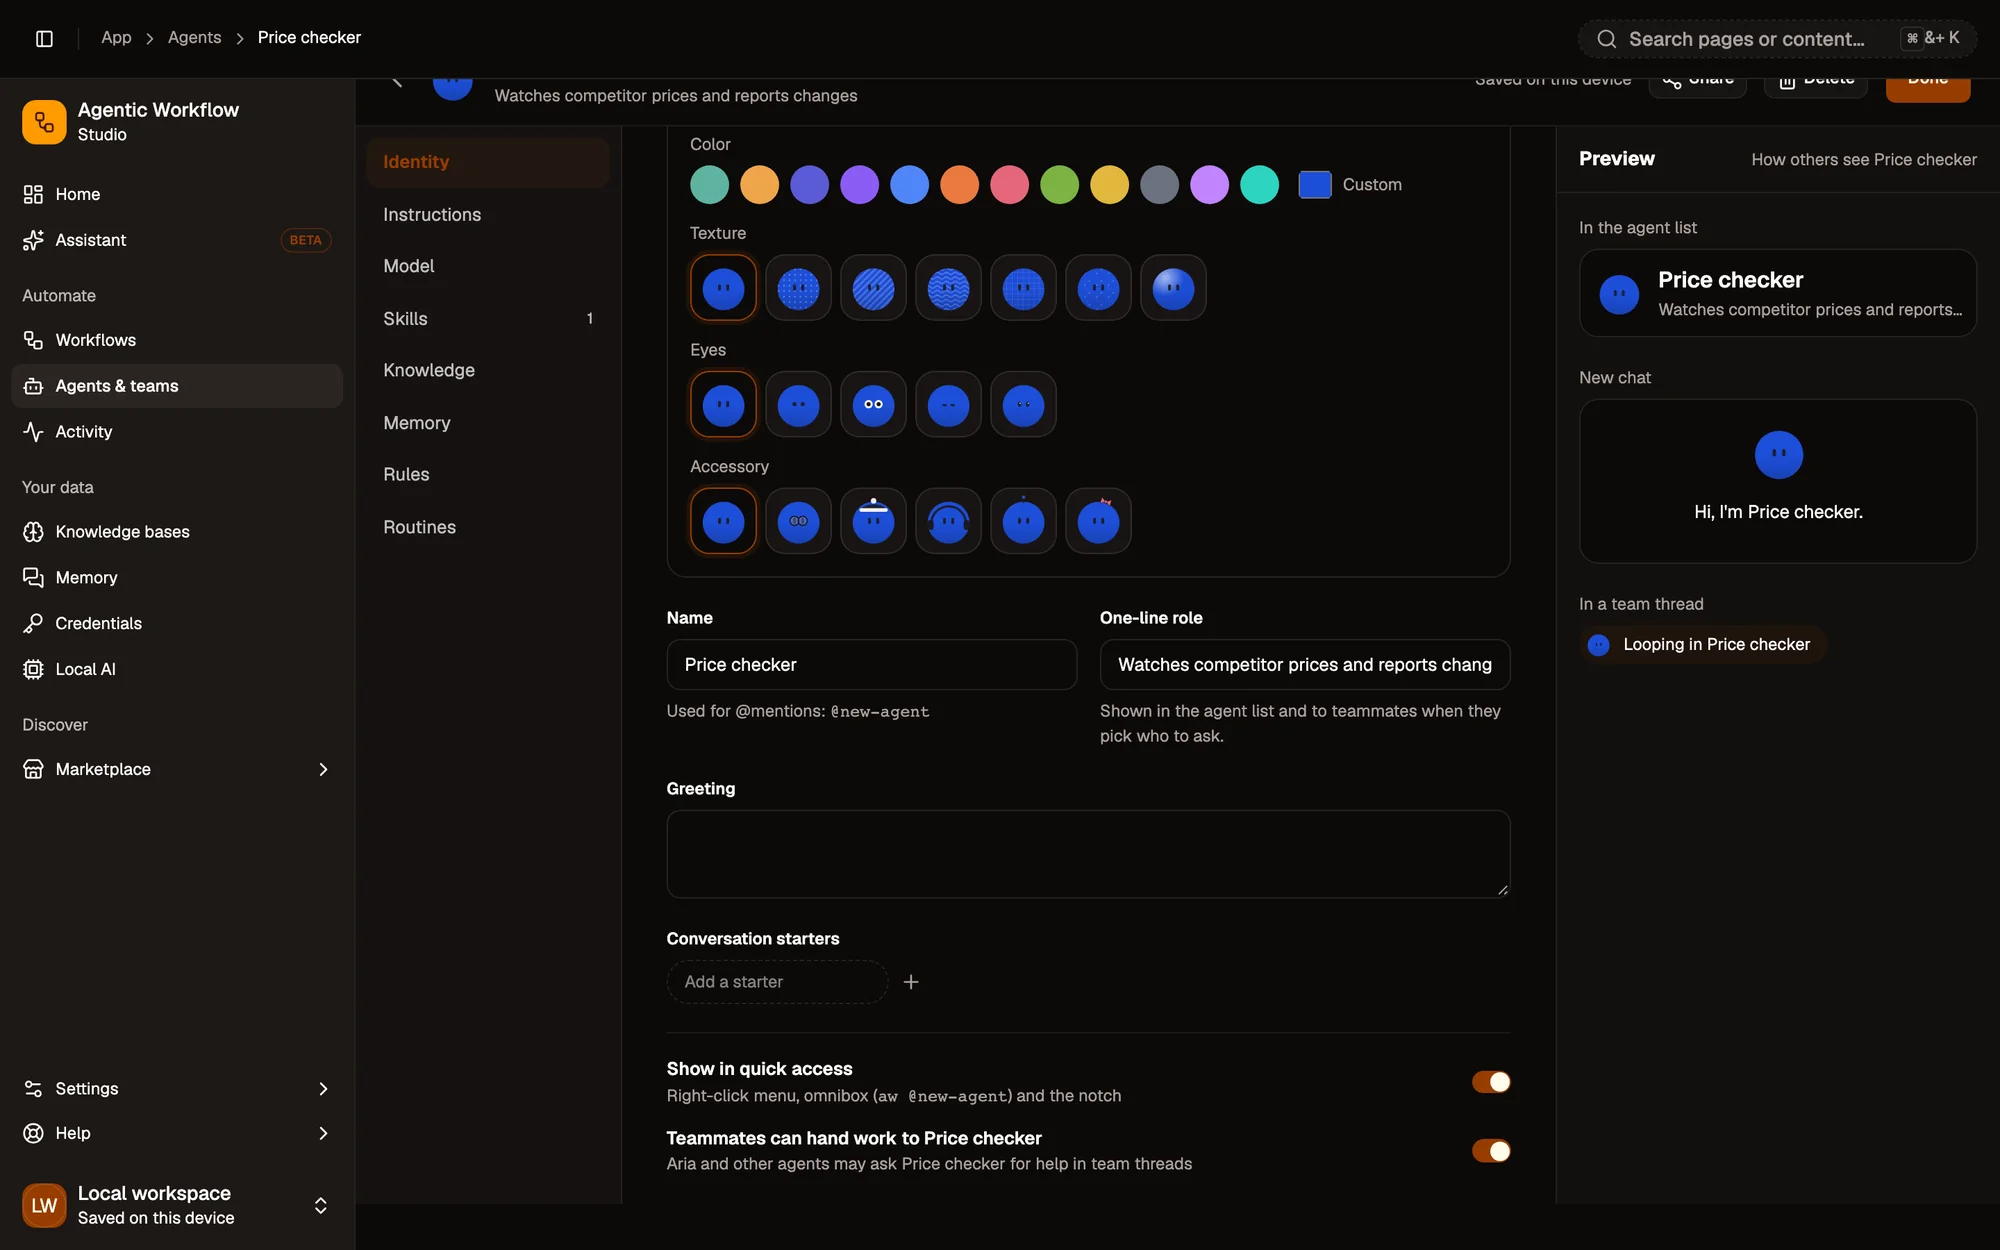
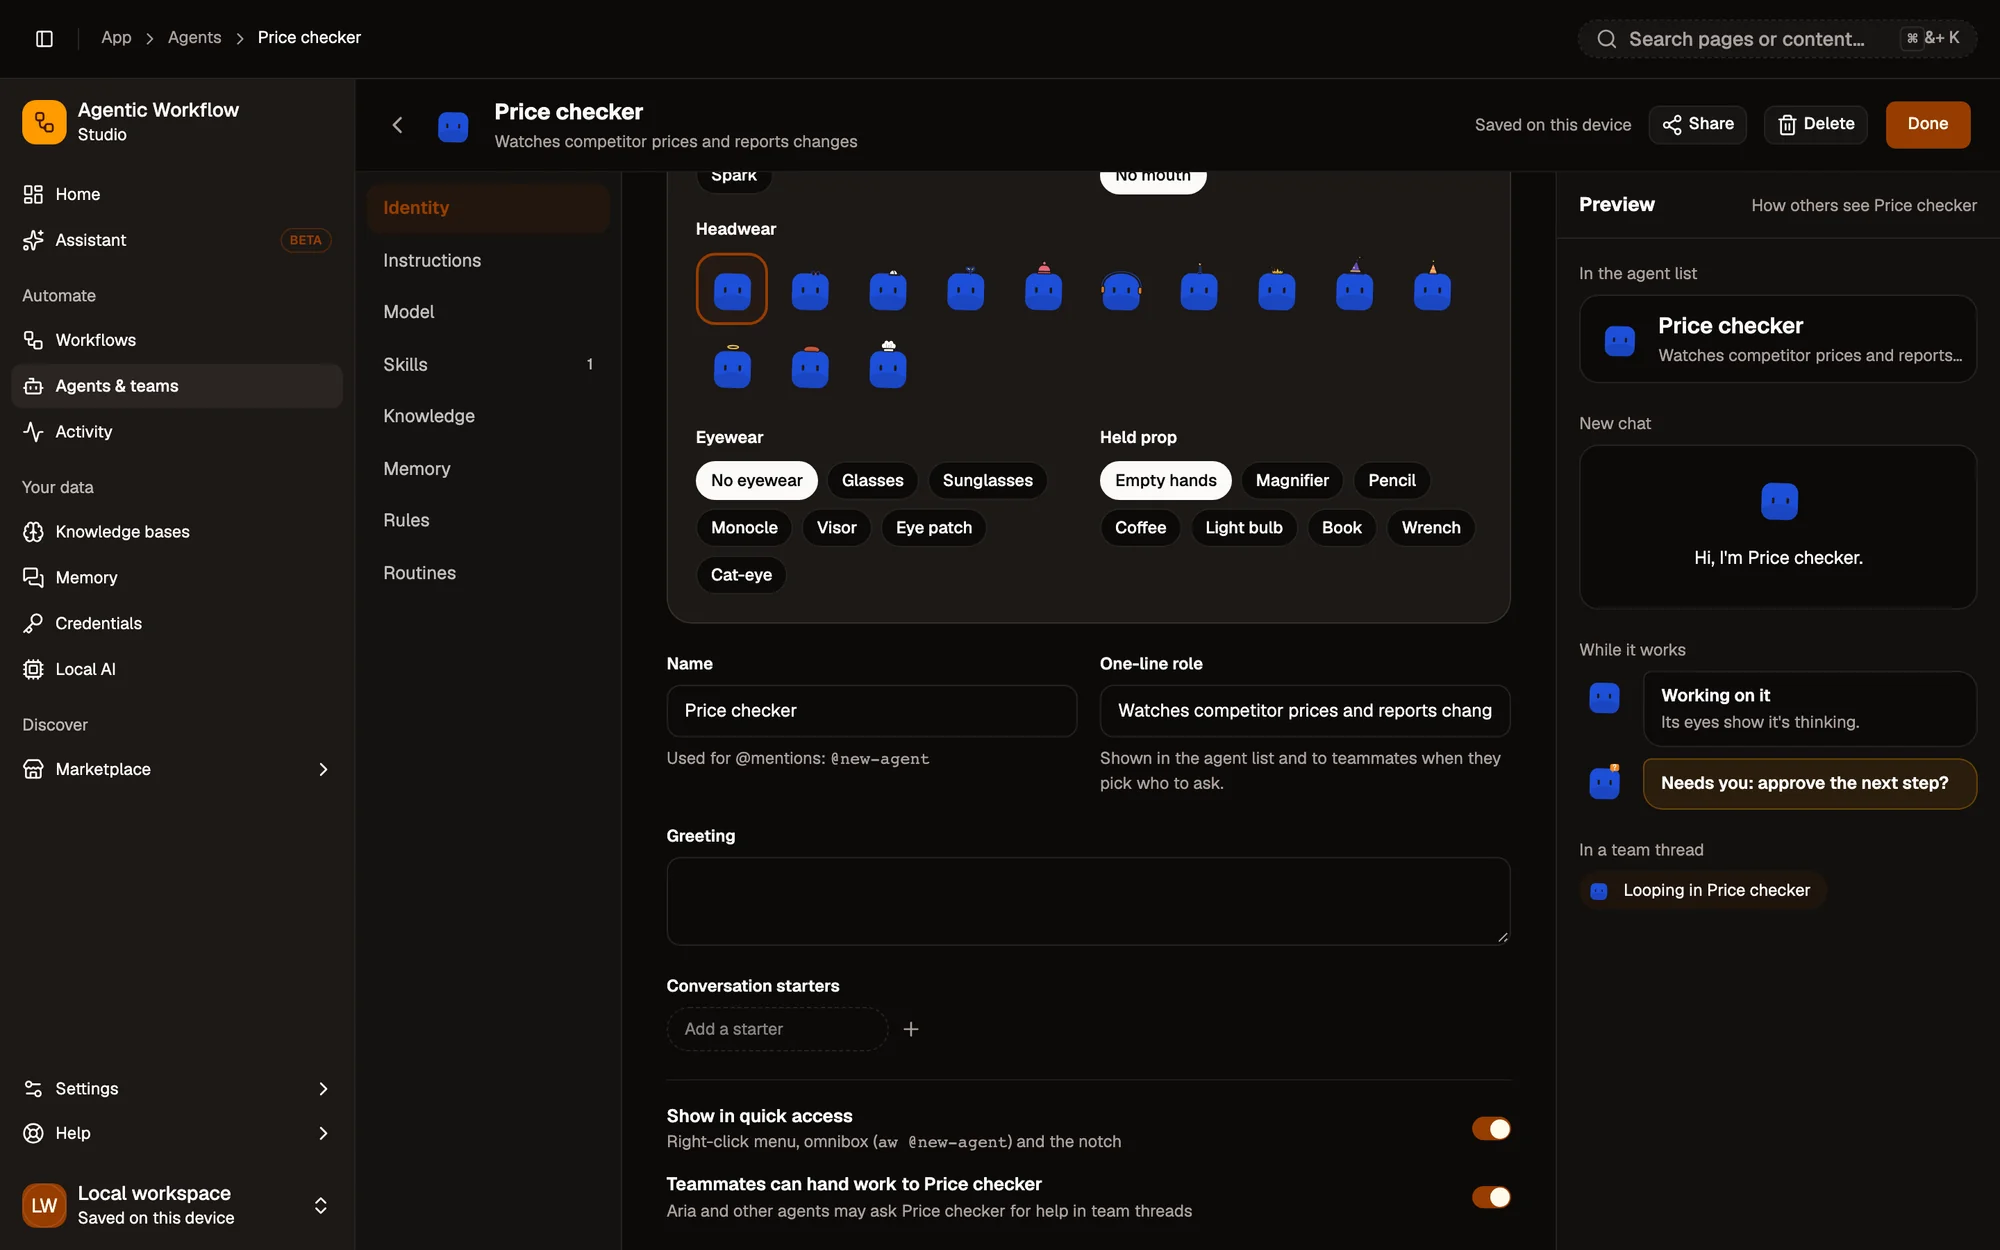
docs(app): agent look and states
Agent builder: what the face shows (idle, thinking, working, speaking,
needs you, done, can't, offline), the look studio as a guided shot
(states, reactions, Upgrade face, Describe a look, Shuffle, role
suggestions, theme/shape/colour/eyes/mouth/headwear/eyewear/prop), the
needs-you ring, team faces looking at the speaker, and Agent animations.
Preferences and Teams updated. New agent-look capture; agent-identity and
settings-preferences recaptured. Capture: seed the telemetry consent model
so the privacy notice stays hidden; scroll only the builder pane.

diff --git a/scripts/capture/shots/ai.ts b/scripts/capture/shots/ai.ts
@@ -4,6 +4,7 @@ import { tmpdir } from 'node:os';
 import { join } from 'node:path';
 import { type ShotDef, btn, link, text, inDialog } from './define.ts';
 import { T, type Session } from '../lib/session.ts';
+import type { Locator } from '../lib/util.ts';
 import { buildAwmem, CHAT_TITLE } from '../lib/awmem.ts';
 
 /** Closes a dialog or menu the previous shot left open. */
@@ -12,6 +13,26 @@ async function closeOverlays(s: Session) {
 		await s.page.keyboard.press('Escape');
 		await s.page.waitForTimeout(300);
 	}
+}
+
+/**
+ * Scrolls only the nearest scrolling pane so `el` sits at its top or centre. Unlike scrollIntoView, the
+ * outer page stays put, so the app header and the bottom of the layout stay in the frame.
+ */
+async function scrollPane(loc: Locator, block: 'start' | 'center') {
+	// Serialized into the page: no closures, so the alignment is read from a data attribute.
+	await loc.evaluate((el) => el.setAttribute('data-capture-scroll', 'start'));
+	if (block === 'center') await loc.evaluate((el) => el.setAttribute('data-capture-scroll', 'center'));
+	await loc.evaluate((el) => {
+		let p = el.parentElement;
+		while (p && !(p.scrollHeight > p.clientHeight && /(auto|scroll)/.test(getComputedStyle(p).overflowY))) p = p.parentElement;
+		const center = el.getAttribute('data-capture-scroll') === 'center';
+		el.removeAttribute('data-capture-scroll');
+		if (!p) return;
+		const r = el.getBoundingClientRect();
+		const pr = p.getBoundingClientRect();
+		p.scrollTop += r.top - pr.top - (center ? (pr.height - r.height) / 2 : 16);
+	});
 }
 
 /** The "Price checker" agent made once per session with Blank agent; returns after opening the builder on `tab`. */
@@ -545,7 +566,7 @@ export const shots: ShotDef[] = [
 		name: 'agent-identity',
 		page: 'app/chat-and-agents/agent-builder',
 		route: '#/app/agents/<id>',
-		alt: "The Identity tab of the agent builder for a new agent, Price checker: the look options (color, texture, eyes, accessory) above the Name, One-line role, Greeting and Conversation starters fields, with the builder tabs on the left and a preview of the agent in the list, a new chat and a team thread on the right.",
+		alt: "The Identity tab of the agent builder for a new agent, Price checker: the end of the look studio (headwear, eyewear and held prop) above the Name, One-line role, Greeting and Conversation starters fields, with the builder tabs on the left and a preview of the agent in the list, a new chat and a team thread on the right.",
 		note: 'The agent is created with Blank agent during capture and stays in the session.',
 		spots: [
 			{ id: 'tabs', label: 'Builder tabs', locator: btn(/^Identity/) },
@@ -556,8 +577,42 @@ export const shots: ShotDef[] = [
 		prepare: async (s) => {
 			await closeOverlays(s);
 			await agentBuilder(s, 'Identity');
-			await s.page.getByRole('textbox', { name: /^Name/ }).evaluate((el) => el.scrollIntoView({ block: 'center' }));
+			await scrollPane(s.page.getByRole('textbox', { name: /^Name/ }), 'center');
 			await s.page.waitForTimeout(500);
+		}
+	},
+	{
+		name: 'agent-look',
+		page: 'app/chat-and-agents/agent-builder',
+		route: '#/app/agents/<id>',
+		alt: 'The look studio at the top of the Identity tab for Price checker, a blue square character. On the left, the large preview with Preview a state chips (Idle, Thinking, Working, Needs you, Done, Offline) and Try a reaction buttons (Wink, Hop, Nod, Celebrate). On the right, the Upgrade face switch (on), Describe a look with Ask Aria and Shuffle, looks suggested for the role (Classic, Pastel, Clay figure), then Theme, Shape, Colour, Eyes, Mouth, Headwear, Eyewear and Held prop pickers.',
+		note: 'The look studio at the top of the Identity tab, for the Price checker agent made with Blank agent. A taller viewport fits the whole studio.',
+		viewport: { width: 1440, height: 1560 },
+		spots: [
+			{ id: 'upgrade-face', label: 'Upgrade face', locator: (p) => p.getByRole('switch', { name: 'Upgrade face' }) },
+			{ id: 'preview', label: 'Preview a state', locator: (p) => p.getByRole('radiogroup', { name: 'Preview a state' }) },
+			{ id: 'reactions', label: 'Try a reaction', locator: btn('Wink', true) },
+			{ id: 'describe', label: 'Describe a look', locator: (p) => p.getByRole('textbox', { name: /Describe a look/ }) },
+			{ id: 'shuffle', label: 'Shuffle', locator: btn(/Shuffle/) },
+			{ id: 'suggestions', label: 'Suggested for this role', locator: text('Suggested for this role:') },
+			{ id: 'theme', label: 'Theme', locator: (p) => p.getByRole('radiogroup', { name: 'Theme' }) },
+			{ id: 'shape', label: 'Shape', locator: (p) => p.getByRole('radiogroup', { name: 'Shape' }) },
+			{ id: 'colour', label: 'Colour', locator: (p) => p.getByRole('radiogroup', { name: 'Colour' }) },
+			{ id: 'face', label: 'Eyes and mouth', locator: (p) => p.getByRole('radiogroup', { name: 'Eyes' }) },
+			{ id: 'headwear', label: 'Headwear', locator: (p) => p.getByRole('radiogroup', { name: 'Headwear' }) },
+			{ id: 'eyewear-prop', label: 'Eyewear and held prop', locator: (p) => p.getByRole('radiogroup', { name: 'Eyewear' }) }
+		],
+		prepare: async (s) => {
+			await closeOverlays(s);
+			// A fresh load, so the builder lays out for the taller viewport.
+			await s.page.goto('about:blank');
+			await agentBuilder(s, 'Identity');
+			await s.page.getByRole('radiogroup', { name: 'Preview a state' }).waitFor({ timeout: T });
+			// A blank agent starts with the legacy face; upgrading keeps the switch on screen.
+			const upgrade = s.page.getByRole('switch', { name: 'Upgrade face' });
+			if ((await upgrade.getAttribute('aria-checked')) !== 'true') await upgrade.click({ timeout: T });
+			await scrollPane(s.page.getByRole('heading', { name: 'Identity' }).first(), 'start');
+			await s.page.waitForTimeout(800);
 		}
 	},
 	{

diff --git a/scripts/capture/lib/util.ts b/scripts/capture/lib/util.ts
@@ -57,6 +57,8 @@ export function seedStorage(theme: Theme, locale = 'en'): Record<string, string>
 			errorReports: false,
 			installId: 'inst_00000000000000000000000000000000',
 			noticeSeen: true,
+			// The app's consent model (opt-in, CONSENT_MODEL 2): older prefs are migrated and the notice asks again.
+			model: 2,
 			lastAppOpenedDay: null,
 			reportedSchedules: null
 		}),
